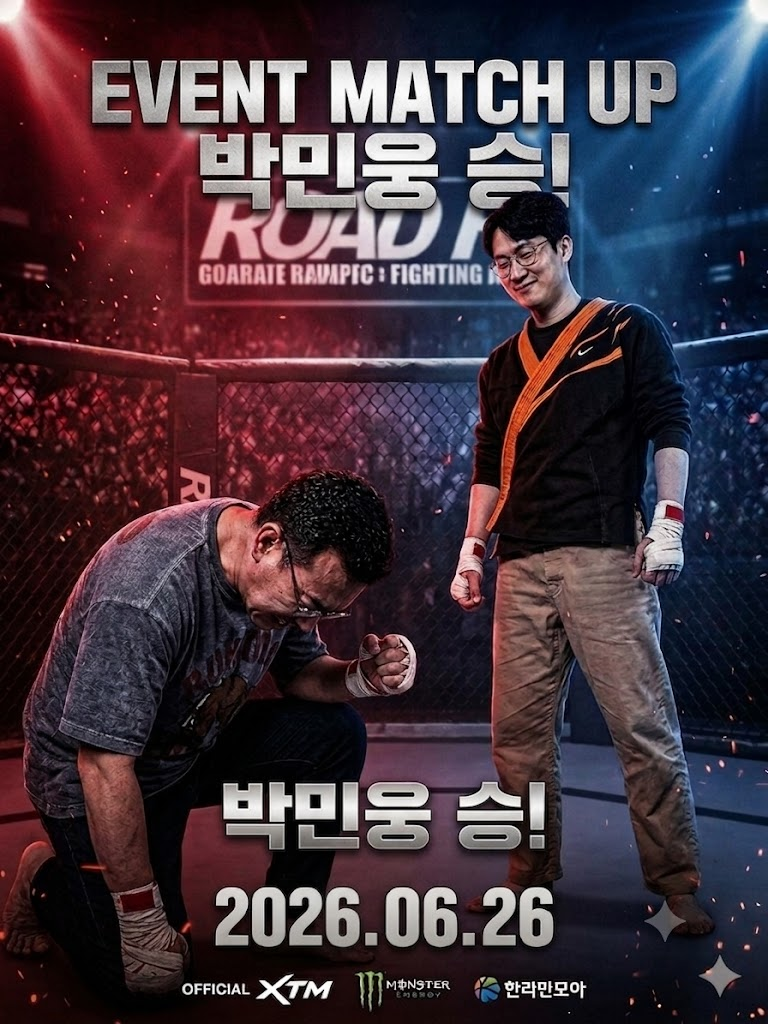
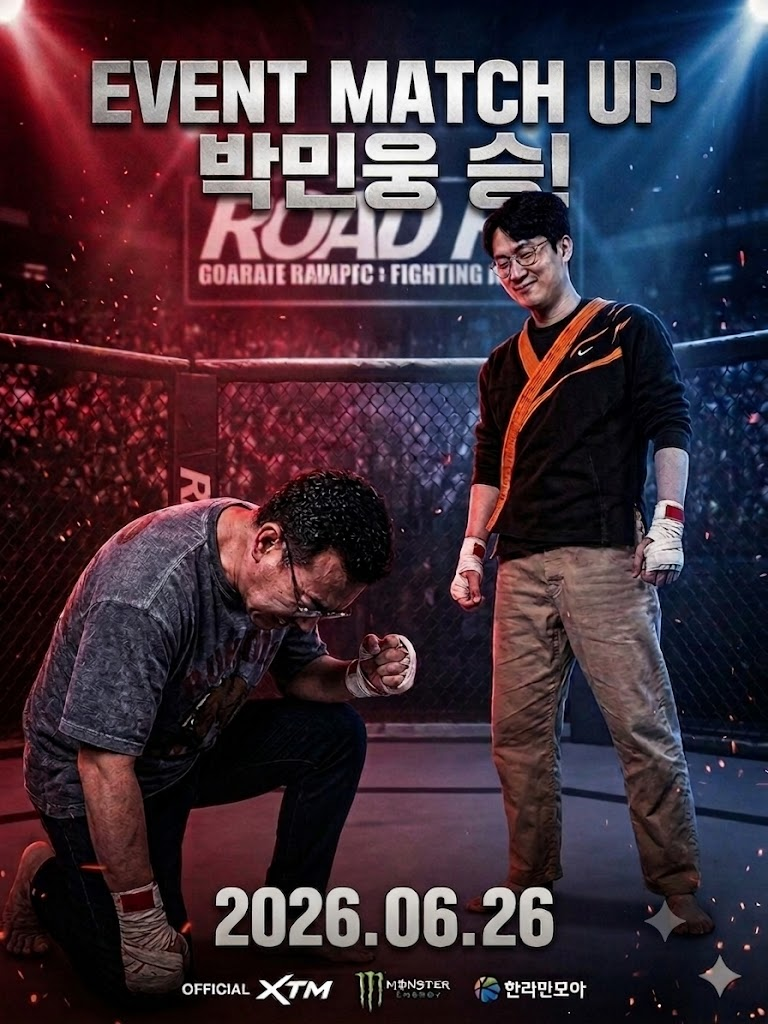
Add files via upload

Changed region(s): [[0.2812, 0.75, 0.5625, 0.8438], [0.5938, 0.75, 0.7188, 0.8438]]

diff --git a/index.html b/index.html
@@ -101,7 +101,7 @@
         <div class="container">
           <header class="section__header matchupHeader">
             <h2 class="matchupHeader__title">
-              Event Match Up <span class="matchupHeader__emph">박민웅 승!</span>
+              Event Match Up <span class="matchupHeader__emph">!</span>
             </h2>
             <img
               class="matchupHeader__poster"
